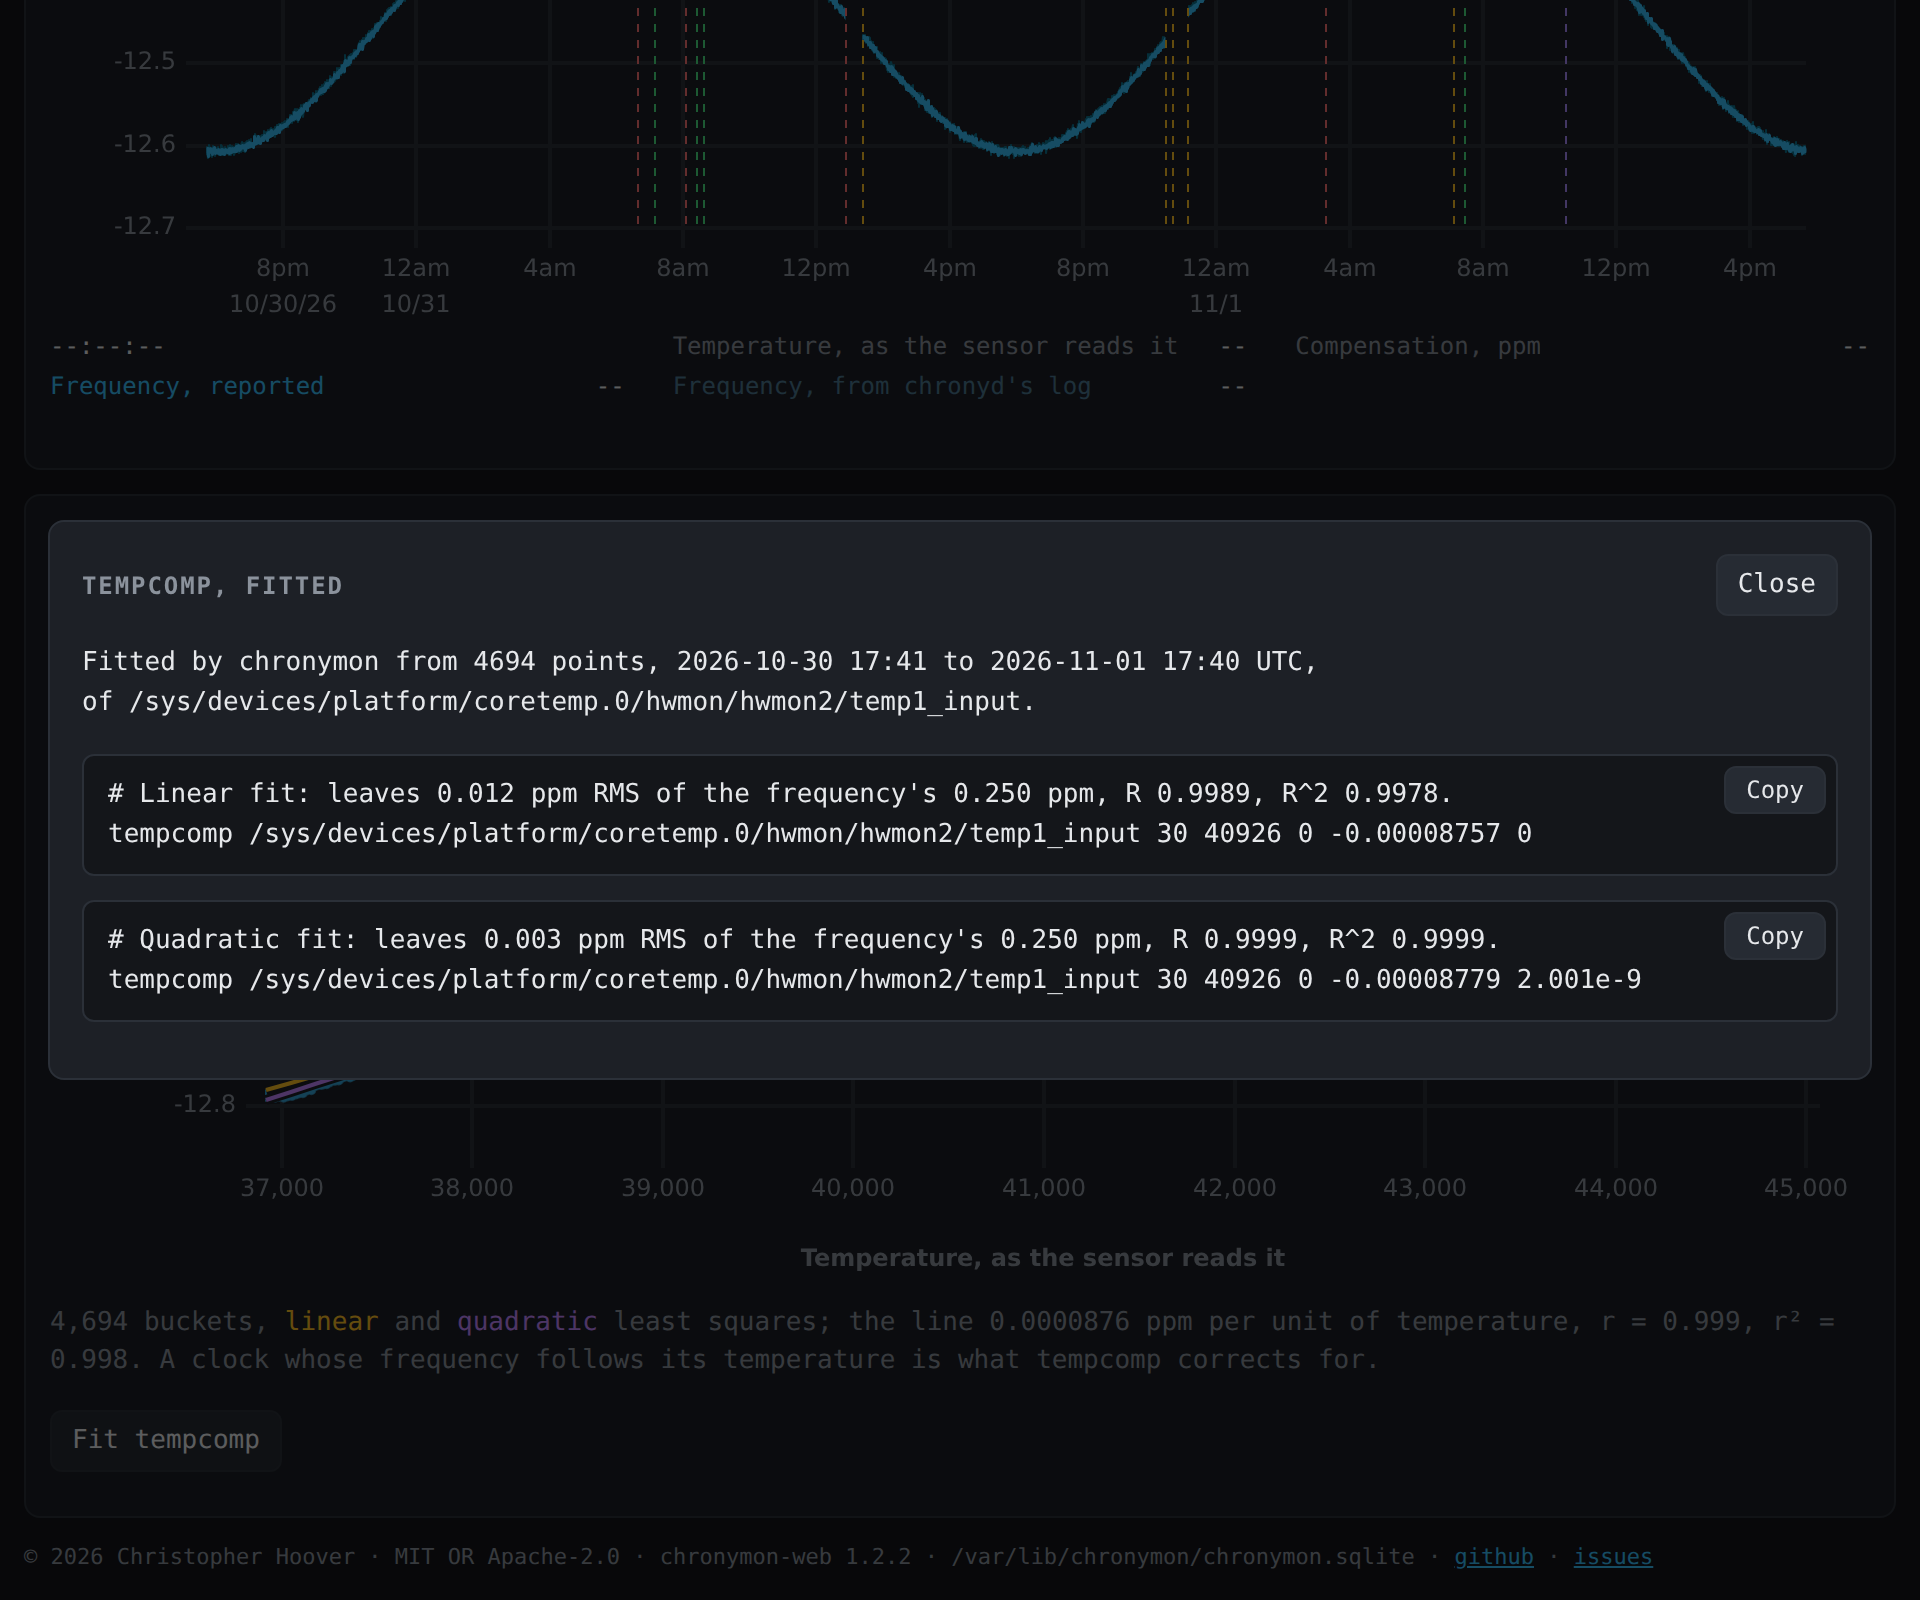
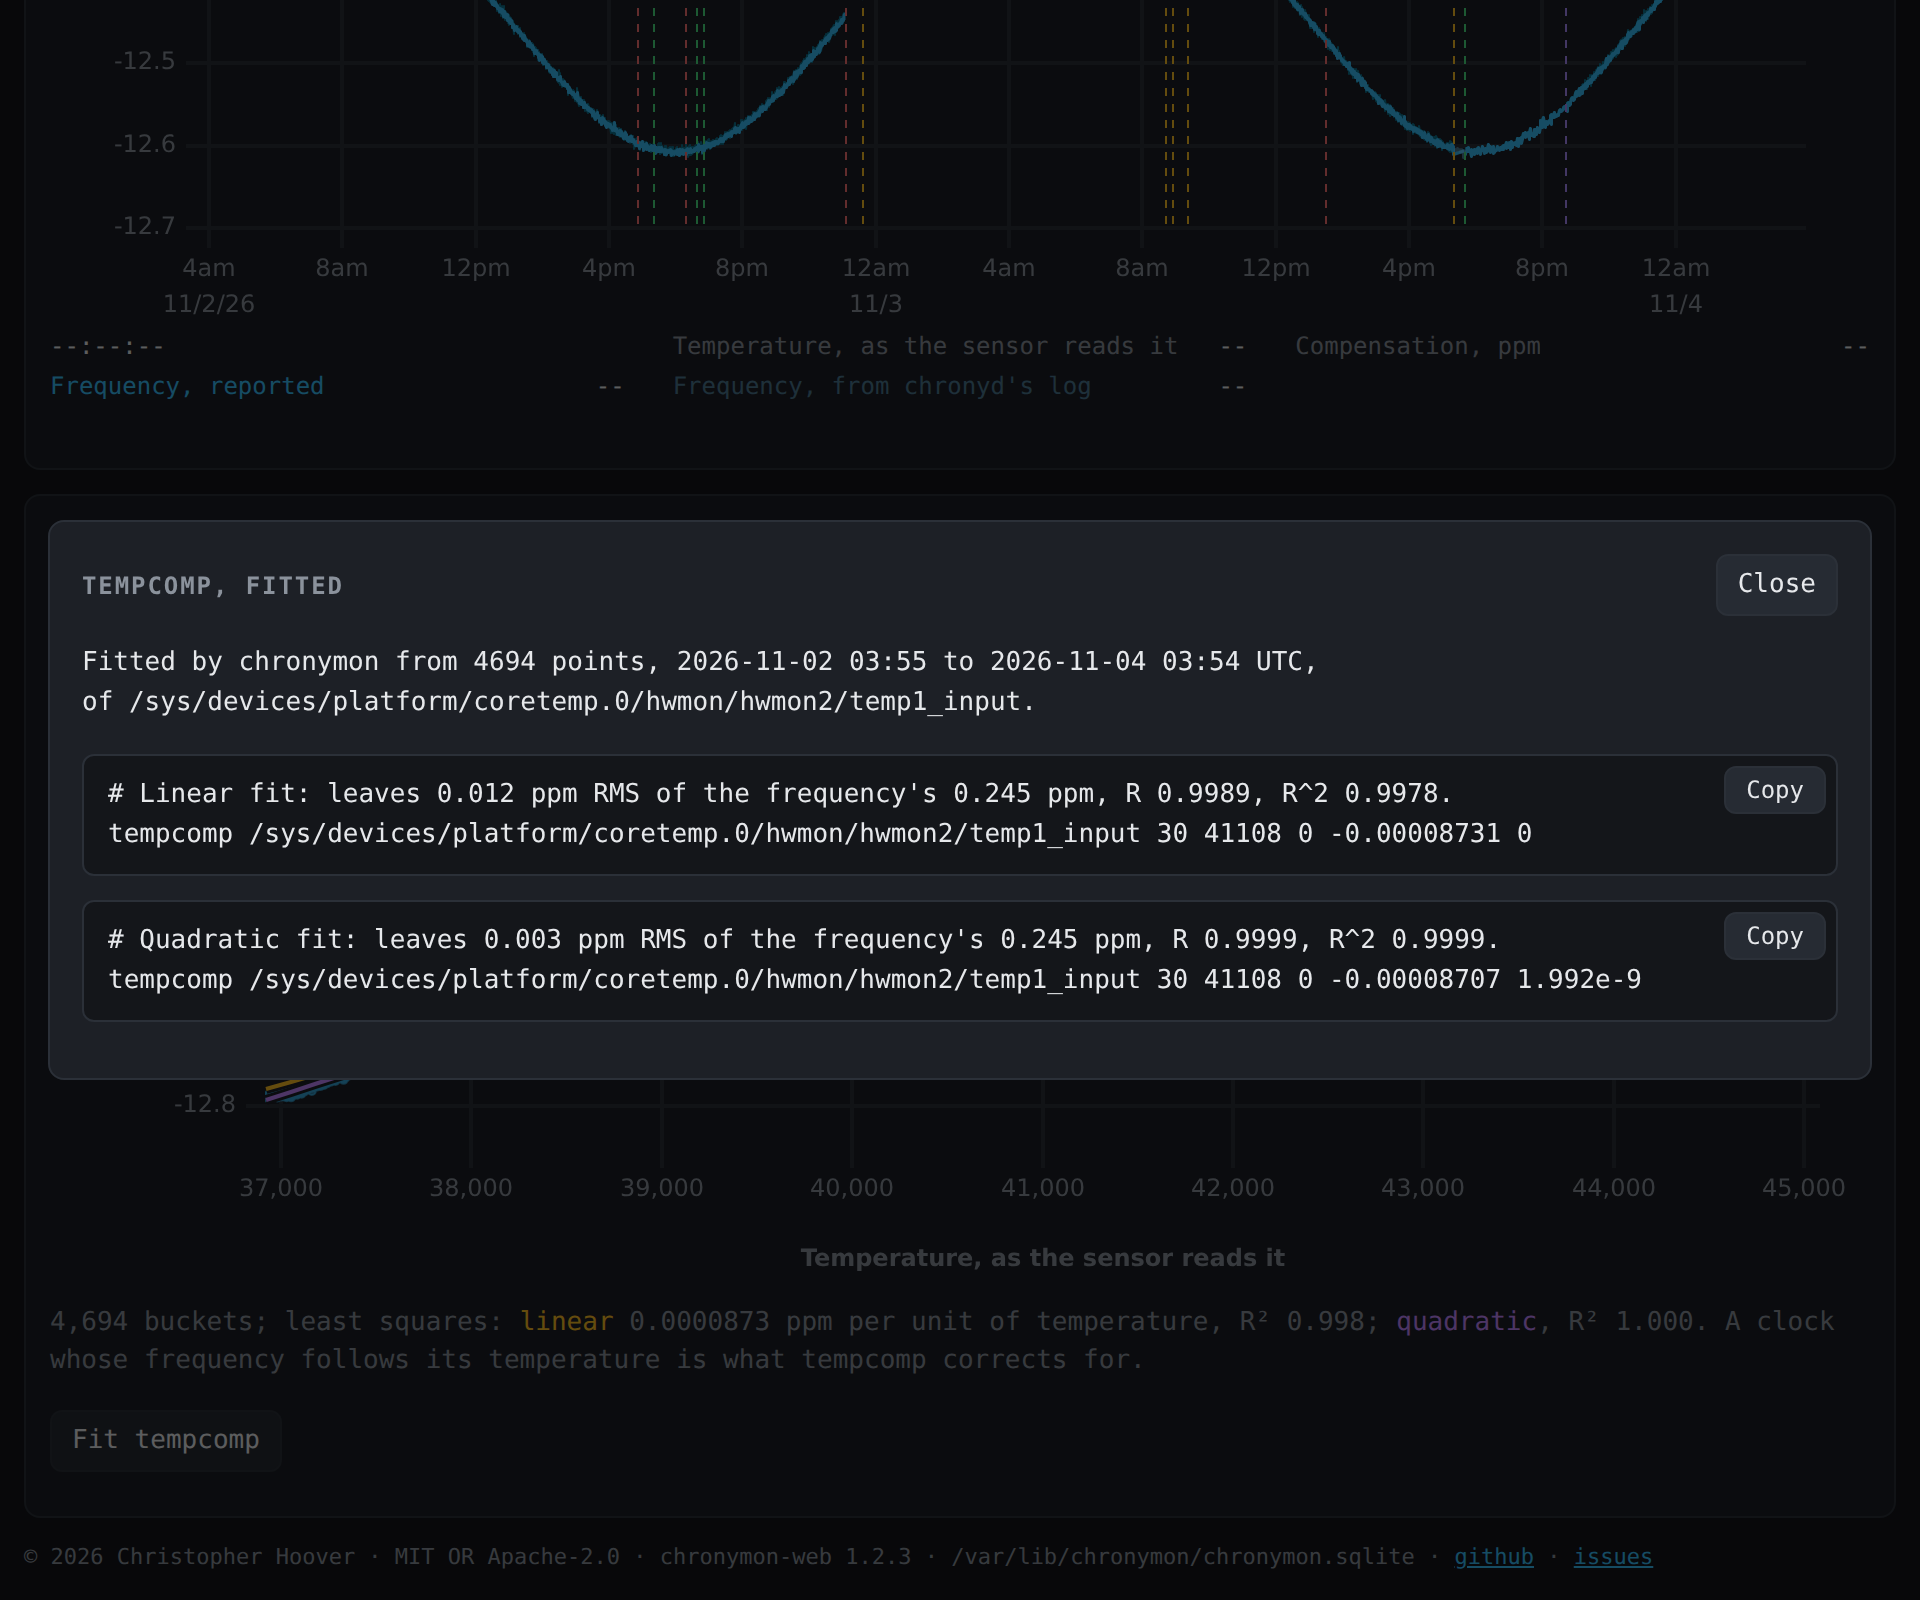
Give each tempcomp fit its own R^2 under the scatter

diff --git a/crates/chronymon-web/src/temperature.html b/crates/chronymon-web/src/temperature.html
@@ -131,7 +131,9 @@ function fitsOf(pairs) {
     if (!c) return [];
     const value = (x) => c.reduce((s, v, n) => s + v * (x - t0) ** n, 0);
     const left = rms(pairs.map(({ x, y }) => y - value(x)));
-    return [{ ...f, c, value, left }];
+    // R^2, the share of the frequency's variance the fit accounts for.
+    const determined = spread > 0 ? 1 - (left / spread) ** 2 : null;
+    return [{ ...f, c, value, left, determined }];
   });
   return { pairs, t0, spread, fits };
 }
@@ -151,11 +153,9 @@ function drawFits() {
   // One block to paste: what both were fitted from, the sensor too, so
   // the file says it later, then each fit, its quality in a comment
   // above it, in ASCII, as chrony.conf is.
-  const groups = fits.map(({ name, degree, c, left }) => {
+  const groups = fits.map(({ name, degree, c, left, determined }) => {
     const [k1, k2] = [-c[1], degree === 2 ? -c[2] : 0];
-    // R^2, the share of the frequency's variance the fit accounts for,
-    // and R, its root: for the line, |r|.
-    const determined = spread > 0 ? 1 - (left / spread) ** 2 : null;
+    // R, R^2's root: for the line, |r|.
     const most = Math.max(...pairs.map(({ x }) => Math.abs(k1 * (x - t0) + k2 * (x - t0) ** 2)));
     return [
       `# ${name} fit: leaves ${ppm(left)} RMS of the frequency's ${ppm(spread)}` +
@@ -212,8 +212,6 @@ function drawScatter(temperature, frequency, points) {
     showHtml($("figures"), "too few readings of both in this range to set against each other");
     return;
   }
-  const fit = leastSquares(pairs);
-  const r = pearson(pairs);
   // Fitted only since the sensor last changed: readings before are
   // another sensor's.
   const since = lastStatus?.tempcomp?.since ?? null;
@@ -229,17 +227,18 @@ function drawScatter(temperature, frequency, points) {
   );
   // Only for a tempcomp line chronymond read, which the fit replaces.
   $("fit").hidden = !lastStatus?.tempcomp || !fitFrom;
-  // The fits' names in their colors, the scatter's legend, and since
-  // when, if not the whole range.
-  const named = (fitFrom?.fits ?? []).map((f) => `<span style="color:${f.color}">${f.name.toLowerCase()}</span>`);
+  // Each fit, its name in its color, the scatter's legend, with its
+  // R^2, the line's slope too, and since when, if not the whole range.
+  const named = (fitFrom?.fits ?? []).map((f) =>
+    `<span style="color:${f.color}">${f.name.toLowerCase()}</span>` +
+    (f.degree === 1 ? ` ${f.c[1].toPrecision(3)} ppm per unit of temperature` : "") +
+    (f.determined == null ? "" : `, R² ${f.determined.toFixed(3)}`));
   const sinceChange = since != null && fitted.length < pairs.length
     ? ` since the sensor changed, ${local(since)}`
     : "";
   showHtml($("figures"),
     `${pairs.length.toLocaleString()} buckets` +
-    (named.length ? `, ${named.join(" and ")} least squares${sinceChange}` : "") +
-    (fit ? `; the line ${fit.slope.toPrecision(3)} ppm per unit of temperature` : "") +
-    (r == null ? "" : `, r = ${r.toFixed(3)}, r² = ${(r * r).toFixed(3)}`) +
+    (named.length ? `; least squares${sinceChange}: ${named.join("; ")}` : "") +
     ". A clock whose frequency follows its temperature is what tempcomp corrects for.");
 }
 

diff --git a/crates/chronymon-web/src/charts.js b/crates/chronymon-web/src/charts.js
@@ -1364,42 +1364,11 @@ const NO_UPLOT =
 
 // ------------------------------------------------------------- scatter
 //
-// One measure against another, a dot per bucket both have, with the
-// least-squares line: smartclock's correlation page's, cut down.
+// One measure against another, a dot per bucket both have, with its
+// least squares fits: smartclock's correlation page's, cut down.
 
 // Fewest pairs a statistic is given for.
 const MIN_PAIRS = 3;
-
-// Pearson's r, or null for too few pairs or a series that never moves.
-function pearson(pairs) {
-  if (pairs.length < MIN_PAIRS) return null;
-  const n = pairs.length;
-  const mx = pairs.reduce((s, p) => s + p.x, 0) / n;
-  const my = pairs.reduce((s, p) => s + p.y, 0) / n;
-  let sxy = 0, sxx = 0, syy = 0;
-  for (const { x, y } of pairs) {
-    sxy += (x - mx) * (y - my);
-    sxx += (x - mx) ** 2;
-    syy += (y - my) ** 2;
-  }
-  return sxx > 0 && syy > 0 ? sxy / Math.sqrt(sxx * syy) : null;
-}
-
-// The least-squares line y = slope * x + intercept, or null.
-function leastSquares(pairs) {
-  if (pairs.length < MIN_PAIRS) return null;
-  const n = pairs.length;
-  const mx = pairs.reduce((s, p) => s + p.x, 0) / n;
-  const my = pairs.reduce((s, p) => s + p.y, 0) / n;
-  let sxy = 0, sxx = 0;
-  for (const { x, y } of pairs) {
-    sxy += (x - mx) * (y - my);
-    sxx += (x - mx) ** 2;
-  }
-  if (!(sxx > 0)) return null;
-  const slope = sxy / sxx;
-  return { slope, intercept: my - slope * mx };
-}
 
 // The least squares polynomial of `degree`, 1 or 2, through `pairs`, x
 // already from T0: its coefficients, constant first.  x is scaled to

diff --git a/docs/how-it-works.md b/docs/how-it-works.md
@@ -261,7 +261,8 @@ reports the frequency left once tempcomp has corrected, so the page
 adds the logged compensation back: the clock's own, whatever the
 coefficients, 0 or a points file.  The
 scatter of one against the other draws the linear and the quadratic
-least squares fits over it.
+least squares fits over it, and gives each one's R^2 and the line's
+slope.
 
 Once a range holds a good spread of temperatures, the page's Fit
 tempcomp opens a dialog of that range's fit, with Copy, and a block
